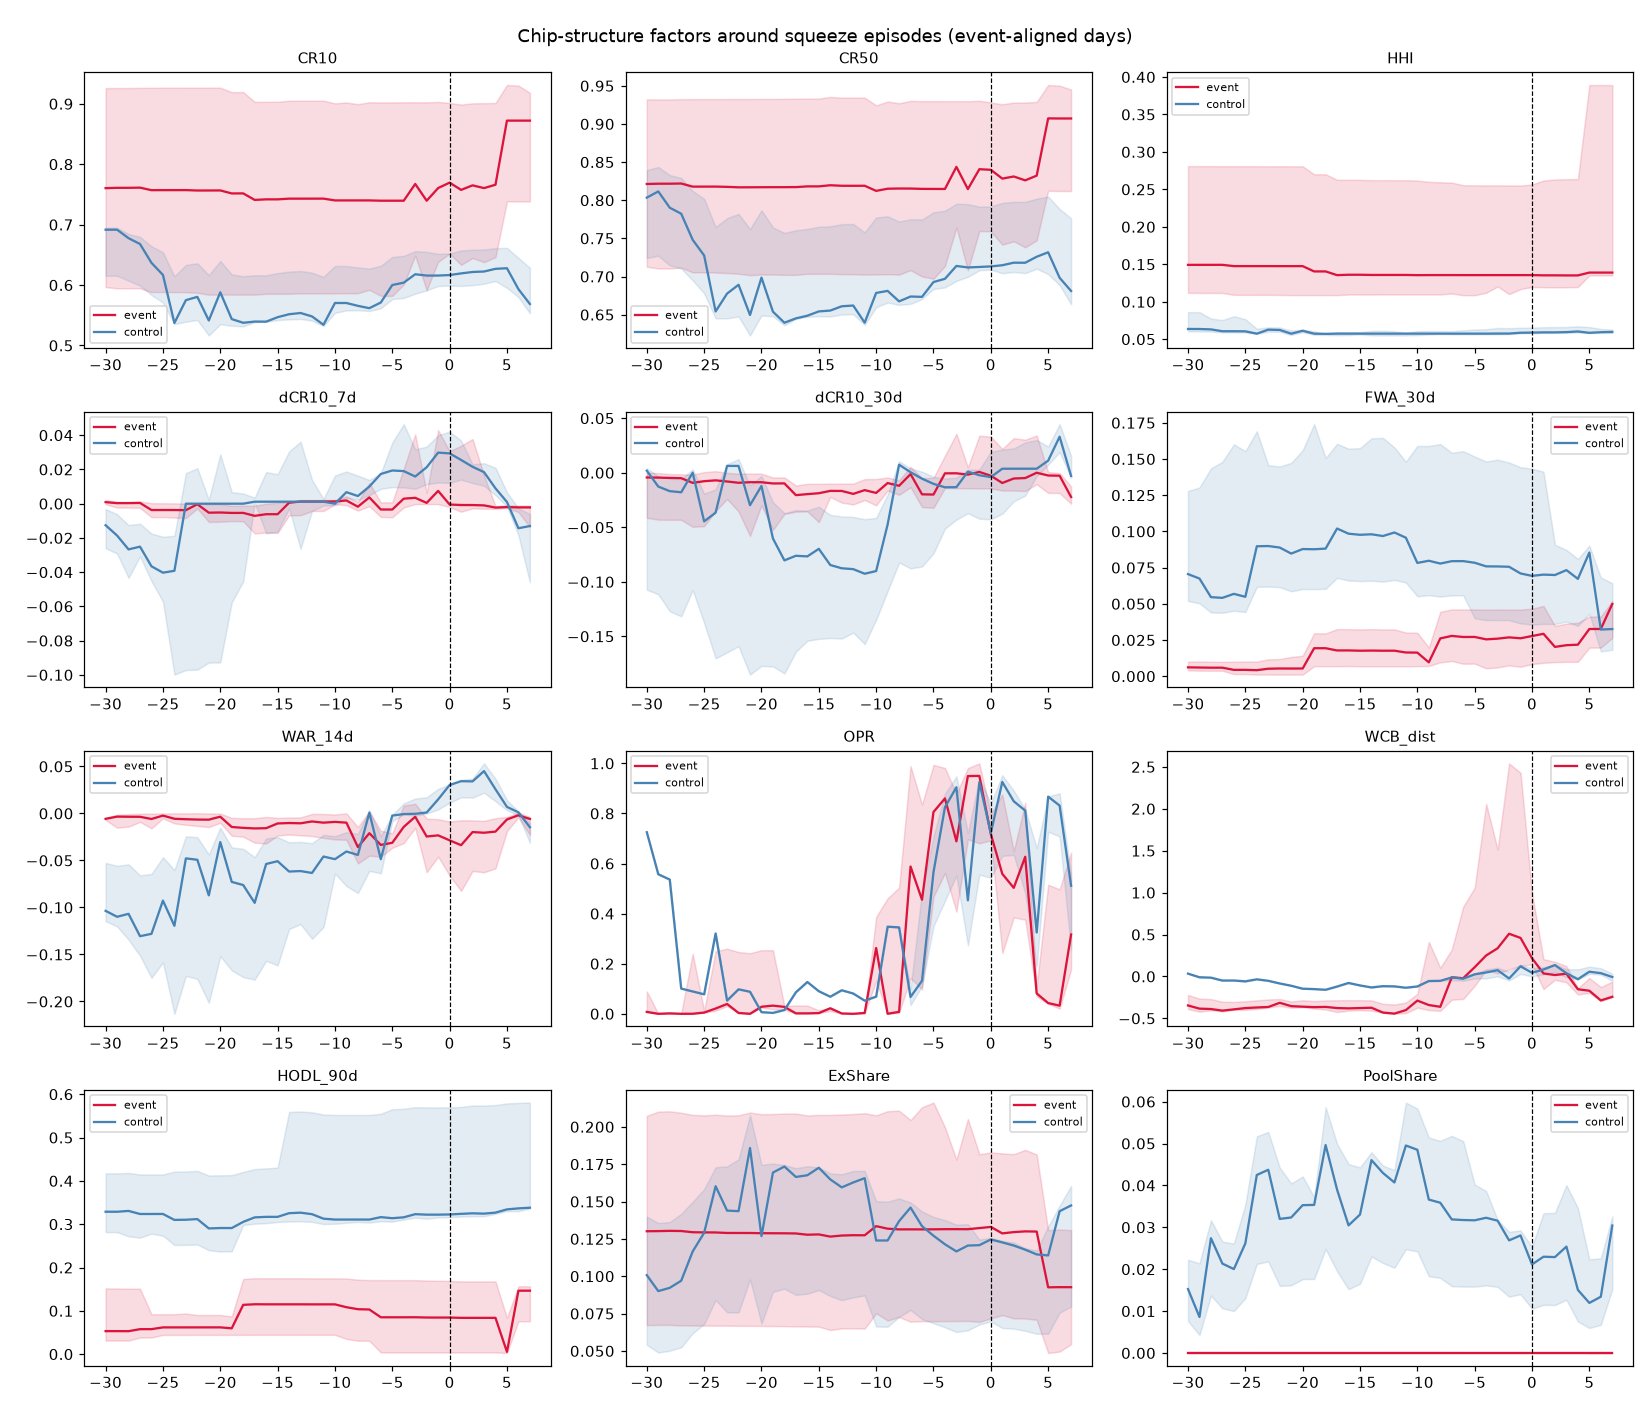
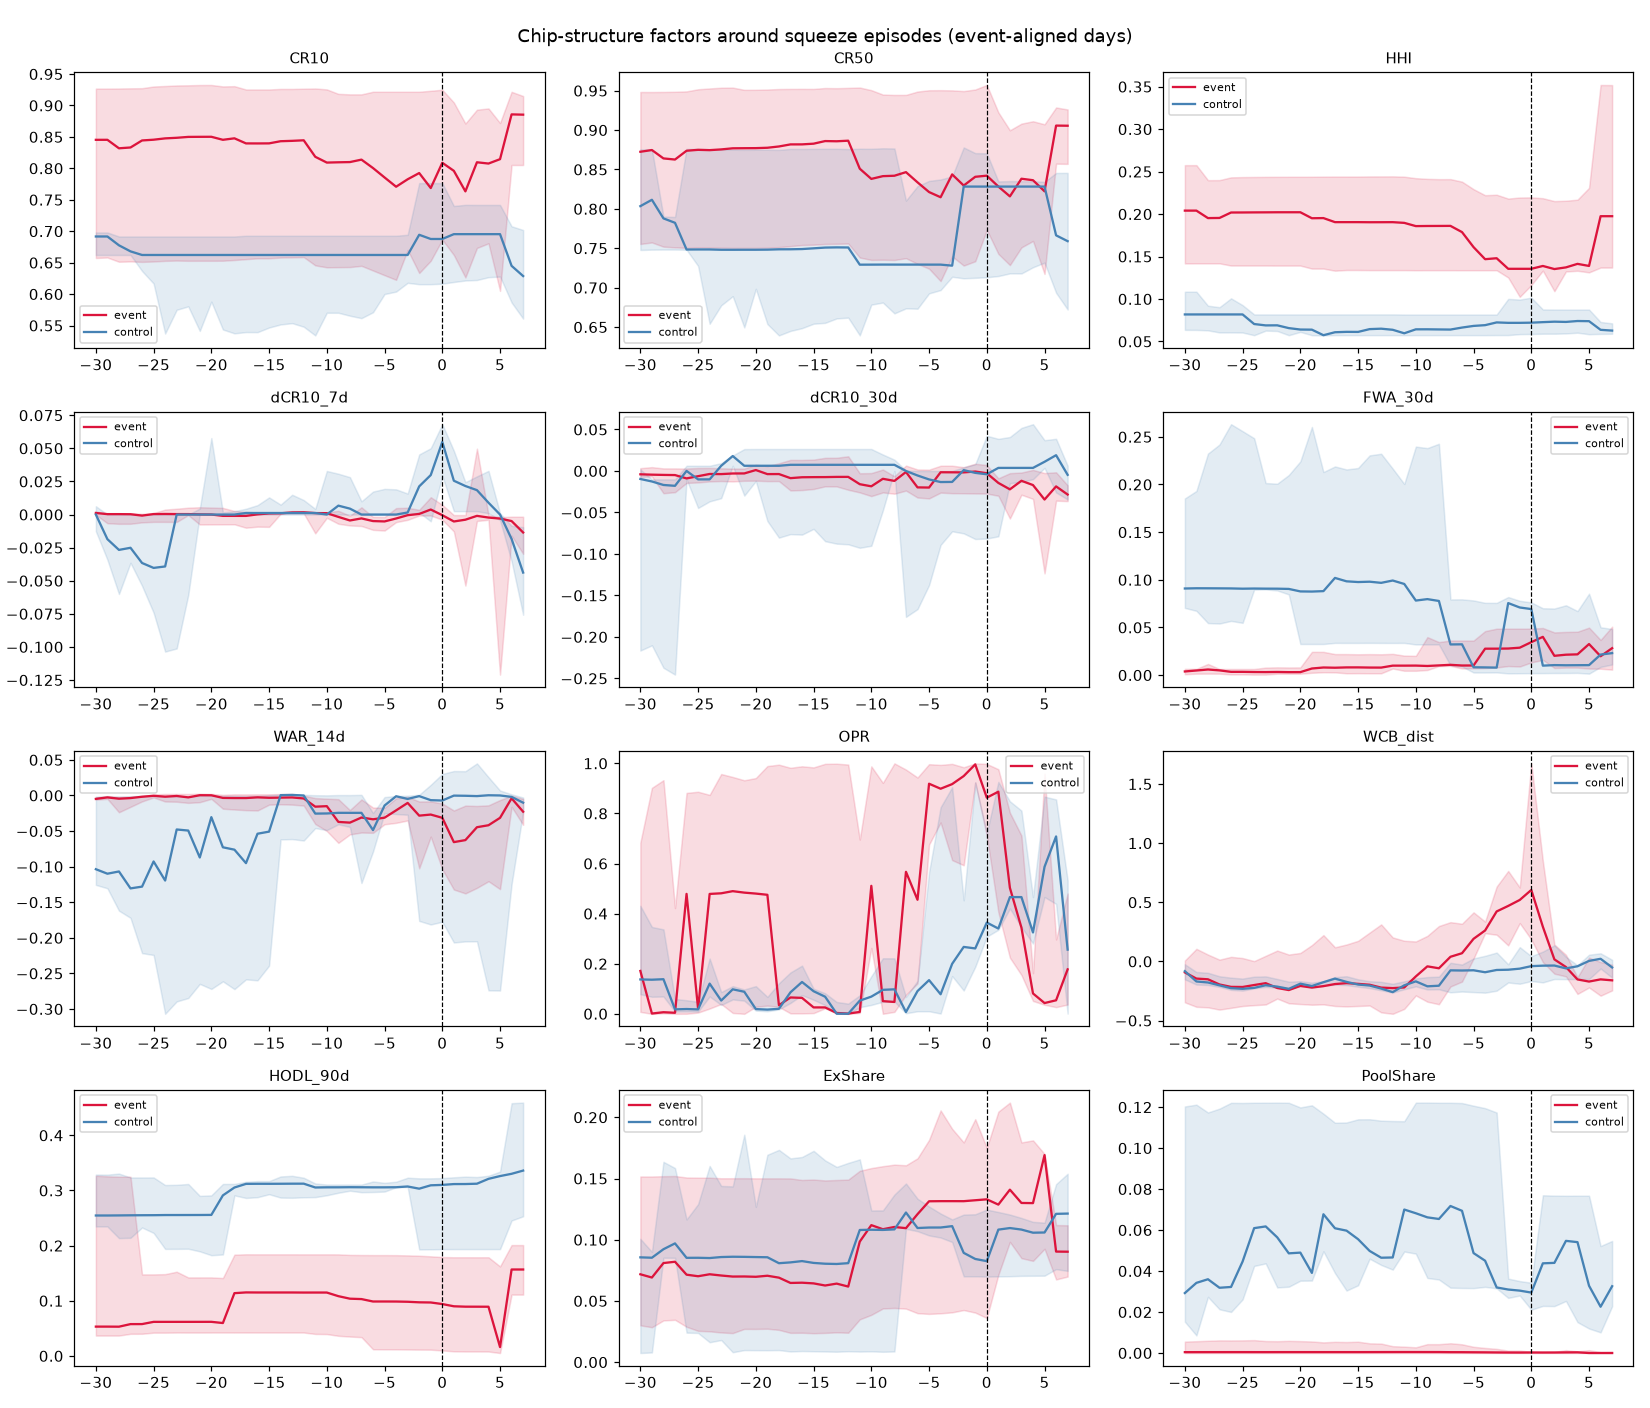
Bigger balance batch size

diff --git a/chip_test/src/onchain.py b/chip_test/src/onchain.py
@@ -107,7 +107,7 @@ def nodereal(method, params, timeout=25, max_tries=10):
     raise RuntimeError(f"nodereal exhausted retries: {method}")
 
 
-def nodereal_batch_calls(calls: list[dict], block: int, batch=100):
+def nodereal_batch_calls(calls: list[dict], block: int, batch=250):
     """Batched eth_call at a historical block. calls: [{'to':..,'data':..}]"""
     out = []
     for i in range(0, len(calls), batch):
